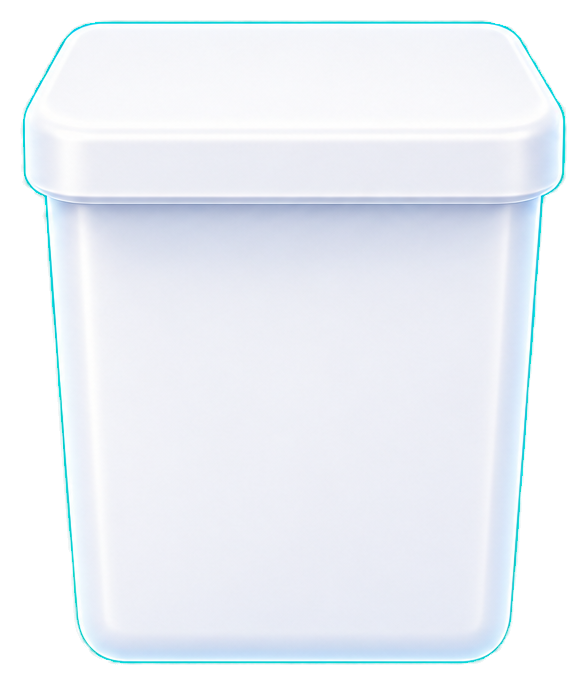
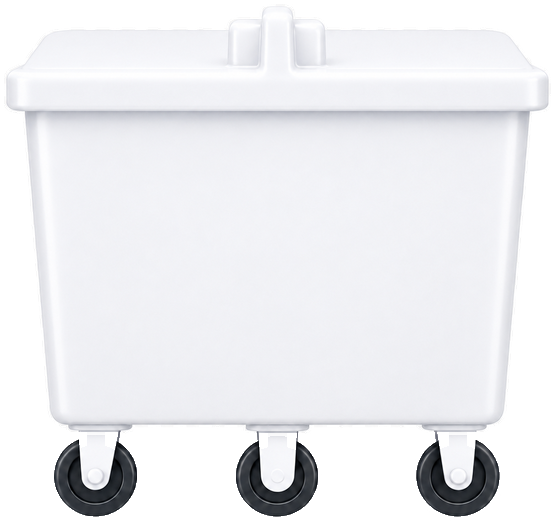
Atualiza visual dos carrinhos no painel

diff --git a/painel-original/script.js b/painel-original/script.js
@@ -9159,7 +9159,7 @@ document.addEventListener("fullscreenchange", () => {
     carts: [
       {
         id:'cart-de08dbf47311',
-        name:'Carrinho 01',
+        name:'C01',
         mac:'DE:08:DB:F4:73:11',
         roomId:'sala-bloco-b1',
         locationStatus:'in_room',
@@ -9171,7 +9171,7 @@ document.addEventListener("fullscreenchange", () => {
       },
       {
         id:'cart-c4894994a485',
-        name:'Carrinho 02',
+        name:'C02',
         mac:'C4:89:49:94:A4:85',
         roomId:'sala-bloco-a',
         locationStatus:'in_room',
@@ -9218,6 +9218,15 @@ document.addEventListener("fullscreenchange", () => {
       }
     });
 
+    const defaultCartNames = new Map(defaultState.carts.map(cart => [cart.id, cart.name]));
+    normalized.carts.forEach(cart => {
+      const defaultName = defaultCartNames.get(cart.id);
+      if(defaultName && /^Carrinho\s+0?[12]$/i.test(String(cart.name || '').trim())){
+        cart.name = defaultName;
+        changed = true;
+      }
+    });
+
     return { state: normalized, changed };
   }
 
@@ -9246,6 +9255,16 @@ document.addEventListener("fullscreenchange", () => {
   function formatMac(value){
     const compact = cleanMac(value);
     return compact.match(/.{1,2}/g)?.join(':') || '';
+  }
+
+  function cartDisplayName(cart){
+    const name = String(cart?.name || '').trim();
+    const compactMac = cleanMac(cart?.mac);
+    if(compactMac === 'DE08DBF47311') return 'C01';
+    if(compactMac === 'C4894994A485') return 'C02';
+    const numberedName = name.match(/^Carrinho\s+0?(\d+)$/i);
+    if(numberedName) return `C${String(numberedName[1]).padStart(2, '0')}`;
+    return name || 'C--';
   }
 
   function finiteNumberOrNull(value){
@@ -9531,7 +9550,7 @@ document.addEventListener("fullscreenchange", () => {
     return `
       <div class="cart-transit-strip">
         <div>
-          <strong>${escapeHtml(cart.name)}</strong>
+          <strong>${escapeHtml(cartDisplayName(cart))}</strong>
           <small>Em transito - sinal afastando</small>
         </div>
         <div class="cart-transit-steps">${steps}</div>
@@ -9553,7 +9572,7 @@ document.addEventListener("fullscreenchange", () => {
       <button type="button" class="cart-item-card ${tone} ${escapeHtml(cart.locationStatus)}" data-cart-id="${escapeHtml(cart.id)}" style="--cart-fill:${fill}%;--cart-liquid:${visualFill}%">
         ${showStatus ? `<span class="cart-card-status"><i>${locationLabel(cart)}</i></span>` : ''}
         <span class="cart-item-body">
-          <strong>${escapeHtml(cart.name)}</strong>
+          <strong>${escapeHtml(cartDisplayName(cart))}</strong>
         </span>
         <span class="cart-visual" aria-hidden="true">
           <span class="cart-bin-empty-shell ${lidOpen ? 'open' : 'closed'}">
@@ -9598,7 +9617,7 @@ document.addEventListener("fullscreenchange", () => {
           return `
             <button type="button" class="cart-room-transit-status" data-cart-id="${escapeHtml(cart.id)}">
               <span>
-                <strong>${escapeHtml(cart.name)} em transito</strong>
+                <strong>${escapeHtml(cartDisplayName(cart))} em transito</strong>
                 <small>Sinal afastando da sala</small>
               </span>
               <span class="cart-room-transit-steps">${steps}</span>

diff --git a/painel-original/styles.css b/painel-original/styles.css
@@ -11762,3 +11762,85 @@ body.analytic-report-open{overflow:hidden}
   position:absolute !important;
   right:0 !important;
 }
+
+/* ===== Approved white cart assets and calibrated fill overlay ===== */
+.cart-tracking-v2 .cart-item-card,
+.cart-tracking-v2 .cart-item-card.transit{
+  gap:4px !important;
+  min-height:164px !important;
+}
+
+.cart-tracking-v2 .cart-item-body{
+  min-height:18px !important;
+}
+
+.cart-tracking-v2 .cart-item-body strong{
+  font-size:17px !important;
+  font-weight:900 !important;
+}
+
+.cart-tracking-v2 .cart-visual{
+  flex:0 0 104px !important;
+  margin:-2px 0 -4px !important;
+  min-height:104px !important;
+}
+
+.cart-tracking-v2 .cart-bin-empty-shell.closed,
+.cart-tracking-v2 .cart-bin-empty-shell.open{
+  bottom:auto !important;
+  height:90px !important;
+  left:50% !important;
+  right:auto !important;
+  top:4px !important;
+  transform:translateX(-50%) scale(.84) !important;
+  transform-origin:center center !important;
+  width:90px !important;
+}
+
+.cart-tracking-v2 .cart-bin-empty-shell.open{
+  height:104px !important;
+  top:-4px !important;
+  transform:translateX(-50%) scale(.84) !important;
+}
+
+.cart-tracking-v2 .cart-bin-empty-img{
+  height:auto !important;
+  left:50% !important;
+  object-fit:unset !important;
+  top:50% !important;
+  transform:translate(-50%,-50%) !important;
+  width:100% !important;
+}
+
+.cart-tracking-v2 .cart-bin-fill-zone{
+  bottom:24.5% !important;
+  clip-path:polygon(0 0,100% 0,94.8% 100%,5.2% 100%) !important;
+  left:10.5% !important;
+  right:10.5% !important;
+  top:25.4% !important;
+}
+
+.cart-tracking-v2 .cart-bin-empty-shell.open .cart-bin-fill-zone{
+  bottom:21.2% !important;
+  clip-path:polygon(0 0,100% 0,94.8% 100%,5.2% 100%) !important;
+  left:10.5% !important;
+  right:10.5% !important;
+  top:35.6% !important;
+}
+
+.cart-tracking-v2 .cart-bin-liquid{
+  opacity:.94 !important;
+}
+
+.cart-tracking-v2 .cart-item-foot{
+  justify-content:center !important;
+  min-height:15px !important;
+}
+
+.cart-tracking-v2 .cart-item-foot small{
+  color:#fff !important;
+  font-size:10.5px !important;
+  font-weight:800 !important;
+  line-height:1.1 !important;
+  text-shadow:0 1px 2px rgba(0,0,0,.28) !important;
+}
